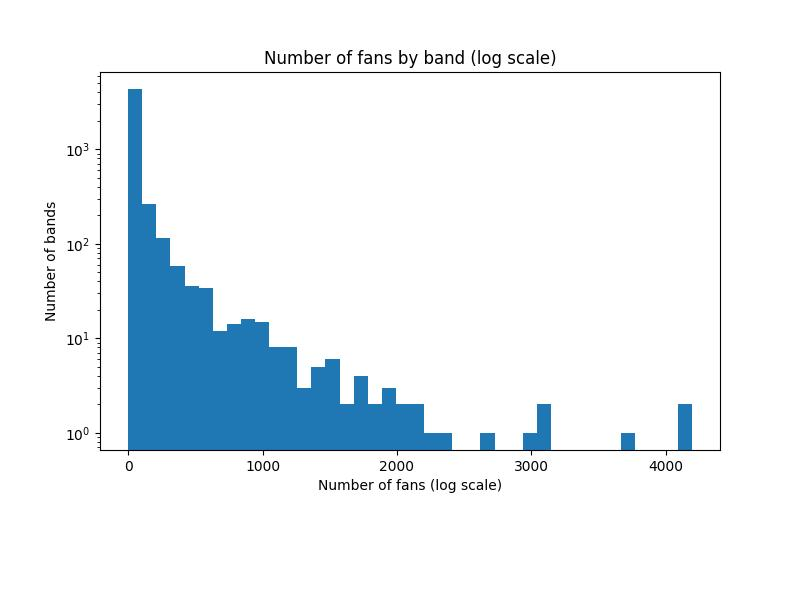
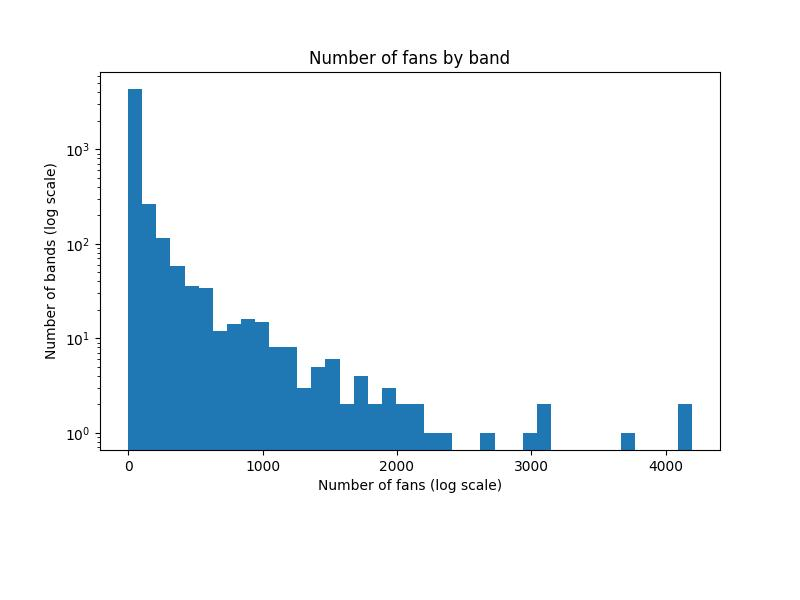
fix: part 5: corrected an axis label

Changed region(s): [[0.0312, 0.27, 0.0938, 0.54], [0.3125, 0.09, 0.6875, 0.12], [0.0625, 0.57, 0.0938, 0.6]]

diff --git a/exercise_5/analysis.py b/exercise_5/analysis.py
@@ -72,8 +72,8 @@ plt.clf()
 plt.hist(metal_bands['fans'], bins=40)
 plt.gca().set_yscale('log')
 plt.xlabel('Number of fans (log scale)')
-plt.ylabel('Number of bands')
-plt.title('Number of fans by band (log scale)')
+plt.ylabel('Number of bands (log scale)')
+plt.title('Number of fans by band')
 # plt.show()
 plt.savefig(os.path.join('images', 'fans_hist_log.jpg'))
 
